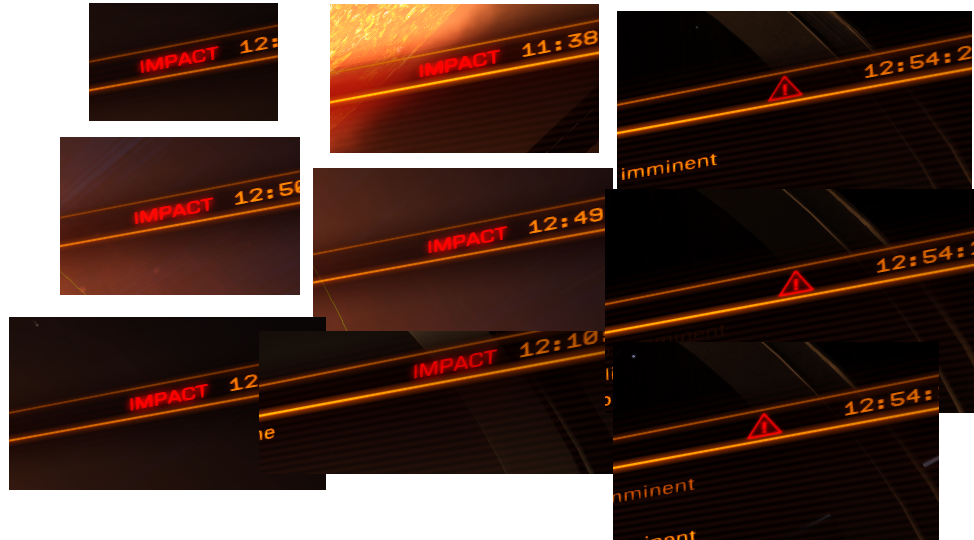
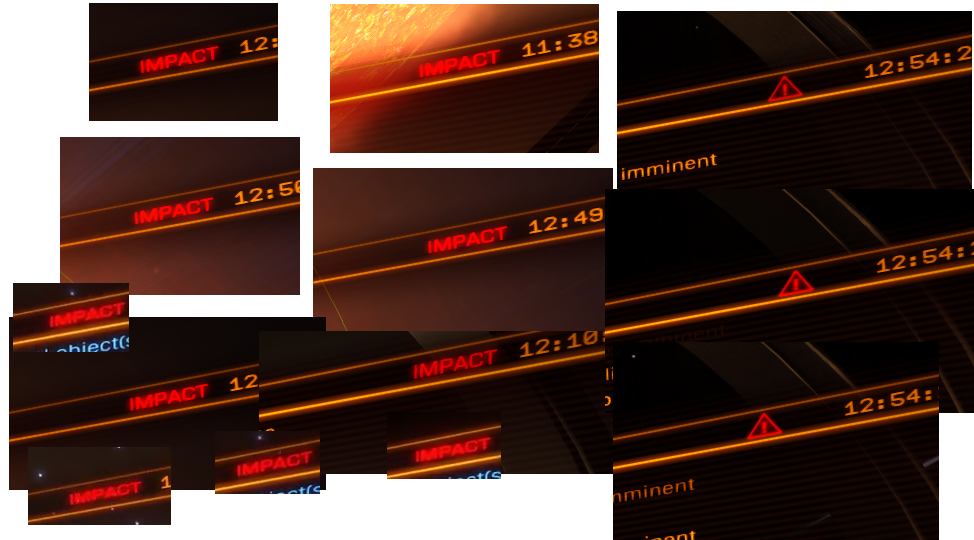
crash less
add IMPACT warning failure cases and fix them by softening constraint for red detection

diff --git a/EDAP/OpenCVExperiments.cs b/EDAP/OpenCVExperiments.cs
@@ -256,16 +256,11 @@ namespace EDAP
 
         public static void MatchImpact()
         {
-            Bitmap screen = new Bitmap("ImpactTest.png");
+            Bitmap screen = new Bitmap("res3/ImpactTest.png");
             //Bitmap cropped = CompassSensor.Crop(screen, screen.Width - 400, 0, screen.Width - 100, 300);
             Mat screenwhole = BitmapConverter.ToMat(screen);
 
-            Mat brightHSV = screenwhole.CvtColor(ColorConversionCodes.BGR2HSV);
-            Mat redMask = brightHSV.InRange(InputArray.Create(new int[] { 0, 250, 200 }), InputArray.Create(new int[] { 5, 256, 256 }))
-                + brightHSV.InRange(InputArray.Create(new int[] { 175, 250, 200 }), InputArray.Create(new int[] { 180, 256, 256 }));
-            Mat darkAreas = new Mat();
-            screenwhole.CopyTo(darkAreas, redMask);
-            Mat red = darkAreas.Split()[2];
+            Mat red = CruiseSensor.IsolateRed(screenwhole);
             red.SaveImage("impacttemplateraw.png");
             Mat template = new Mat("res3/impacttemplate.png", ImreadModes.GrayScale);
             Mat result = new Mat(red.Size(), red.Type());

diff --git a/EDAP/CruiseSensor.cs b/EDAP/CruiseSensor.cs
@@ -32,9 +32,10 @@ namespace EDAP
         /// </summary>
         public static Mat IsolateRed(Mat source)
         {
+
             Mat brightHSV = source.CvtColor(ColorConversionCodes.BGR2HSV);
-            Mat redMask = brightHSV.InRange(InputArray.Create(new int[] { 0, 250, 200 }), InputArray.Create(new int[] { 5, 256, 256 }))
-                + brightHSV.InRange(InputArray.Create(new int[] { 175, 250, 200 }), InputArray.Create(new int[] { 180, 256, 256 }));
+            Mat redMask = brightHSV.InRange(InputArray.Create(new int[] { 0, 180, 200 }), InputArray.Create(new int[] { 5, 256, 256 }))
+                + brightHSV.InRange(InputArray.Create(new int[] { 175, 180, 200 }), InputArray.Create(new int[] { 180, 256, 256 }));
             Mat redAreas = new Mat();
             source.CopyTo(redAreas, redMask);
             Mat red = redAreas.Split()[2];
